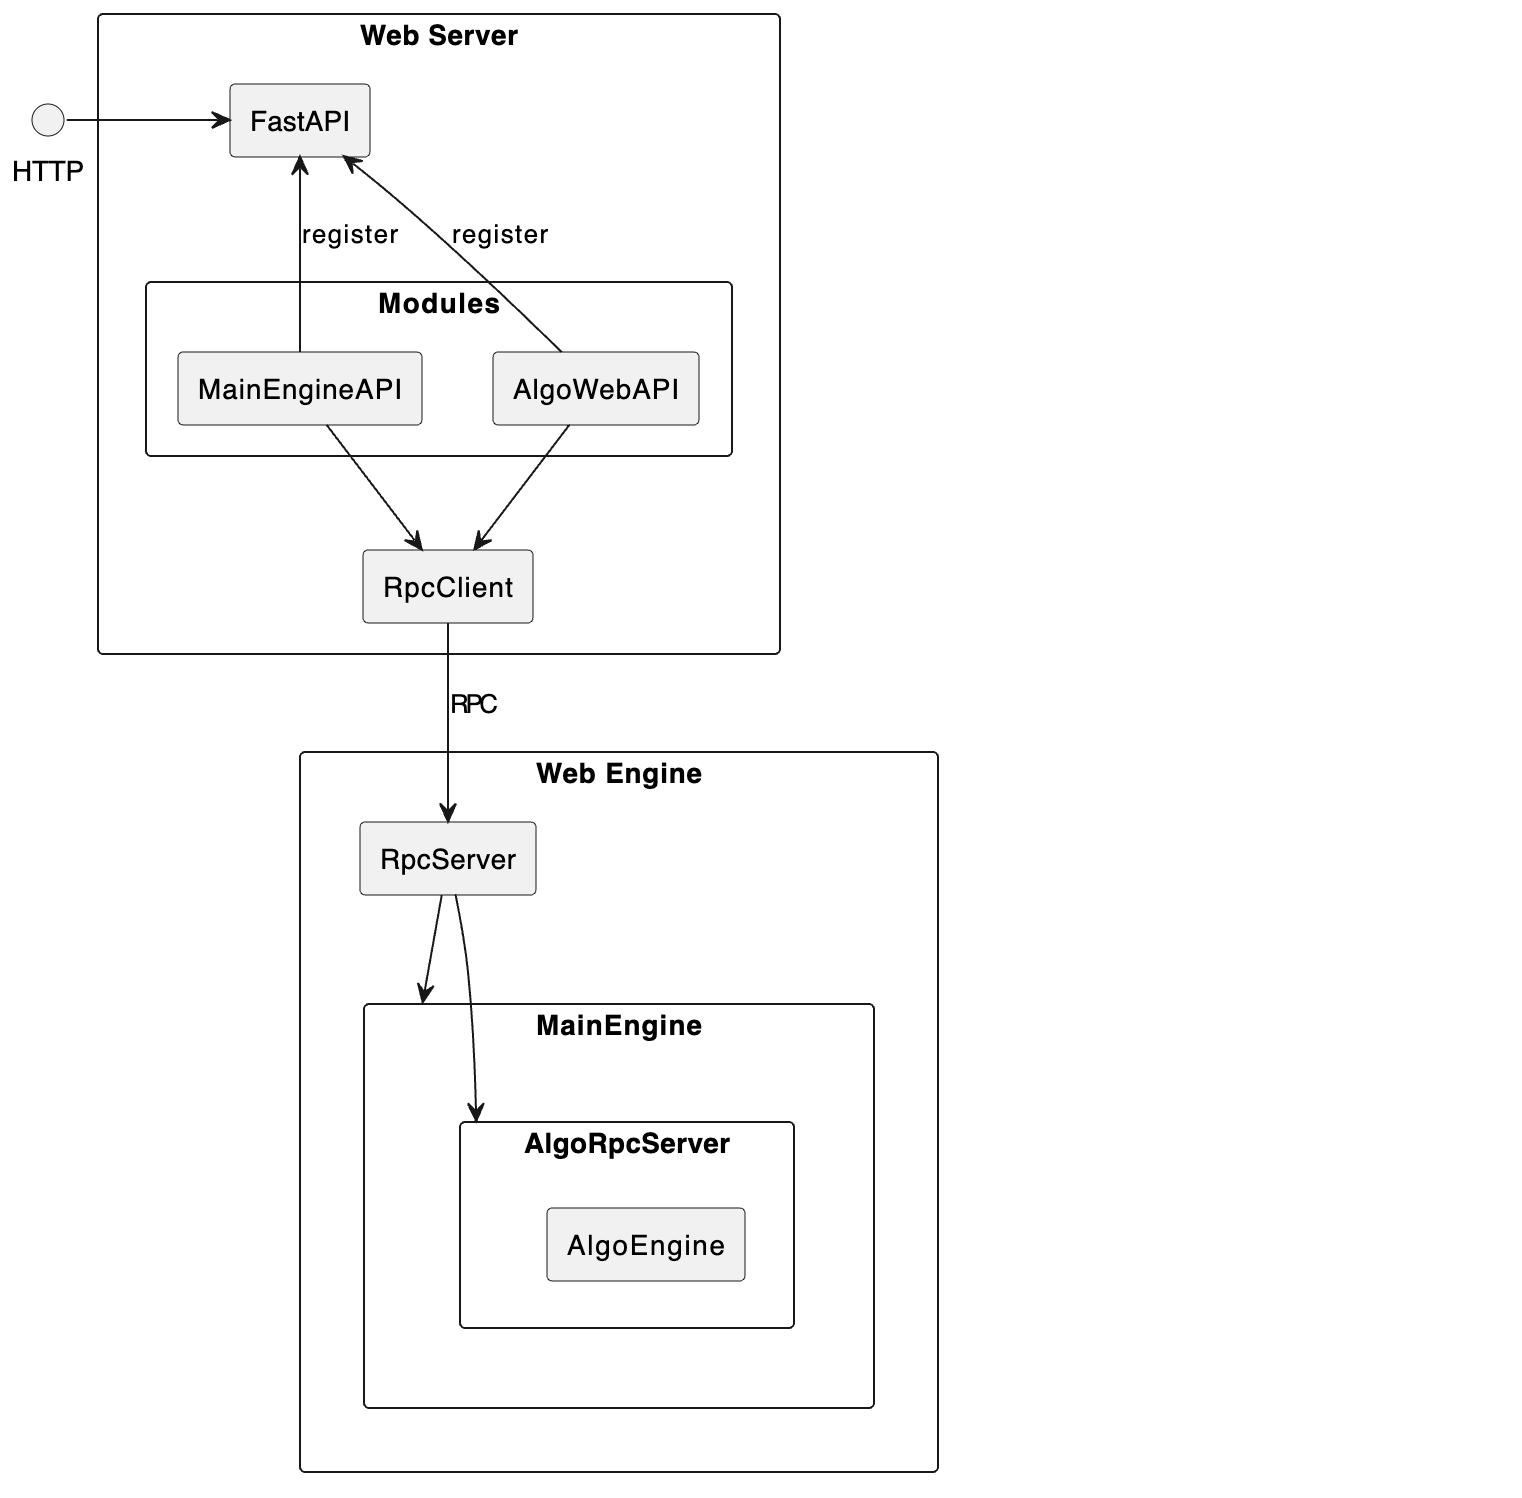
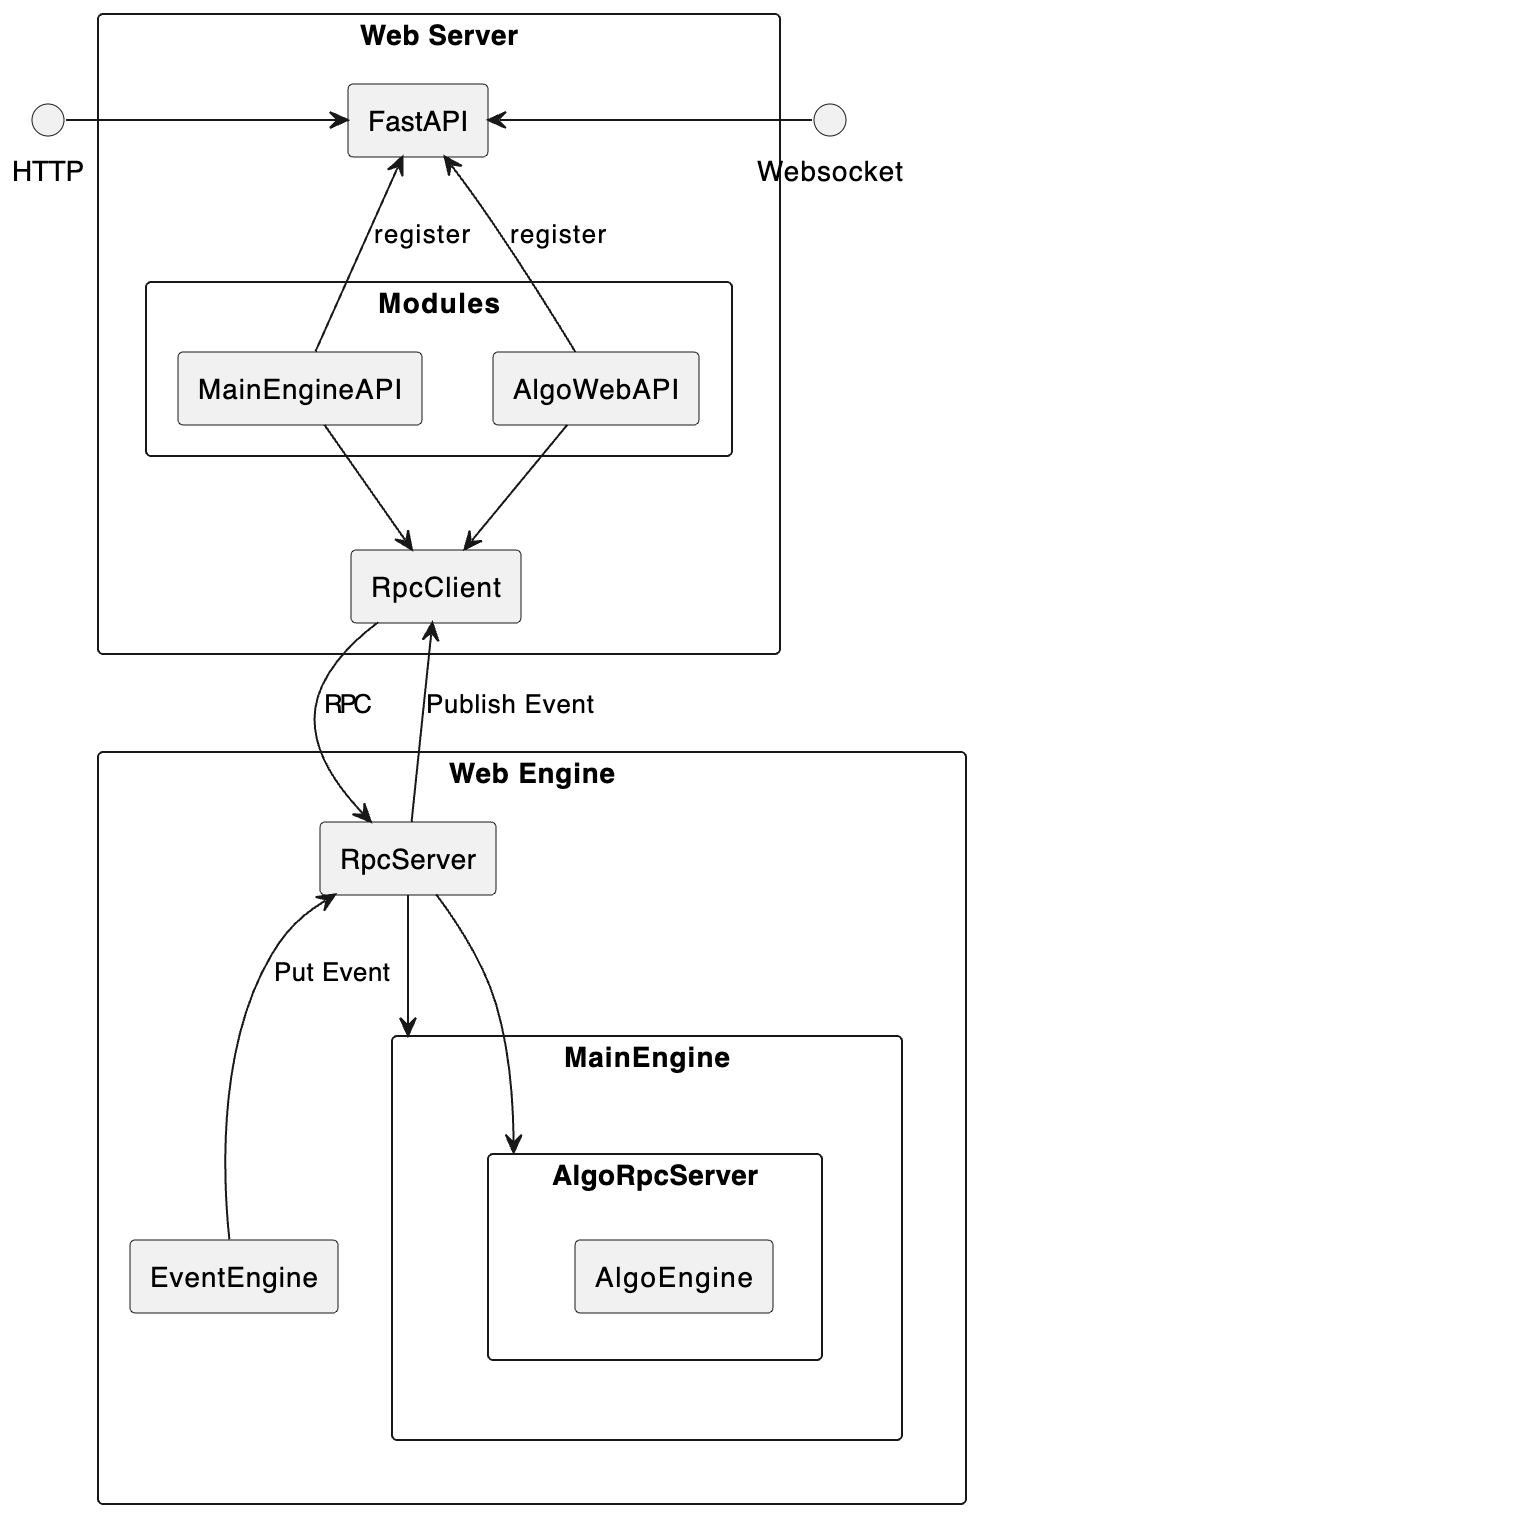
update README.md

diff --git a/README.md b/README.md
@@ -22,6 +22,7 @@ component "Web Server" as web {
     }
 }
 HTTP -right-> [FastAPI]
+Websocket -right-> [FastAPI]
 
 component "Web Engine" as engine {
     [RpcServer]
@@ -33,9 +34,12 @@ component "Web Engine" as engine {
     component "AlgoRpcServer" {
         [AlgoEngine]
     }
+
+    [EventEngine] -up-> [RpcServer]: "Put Event"
 }
 
 [RpcClient] -down-> [RpcServer]: "RPC"
+[RpcServer] -up-> [RpcClient]: "Publish Event"
 @enduml
 ```
 
